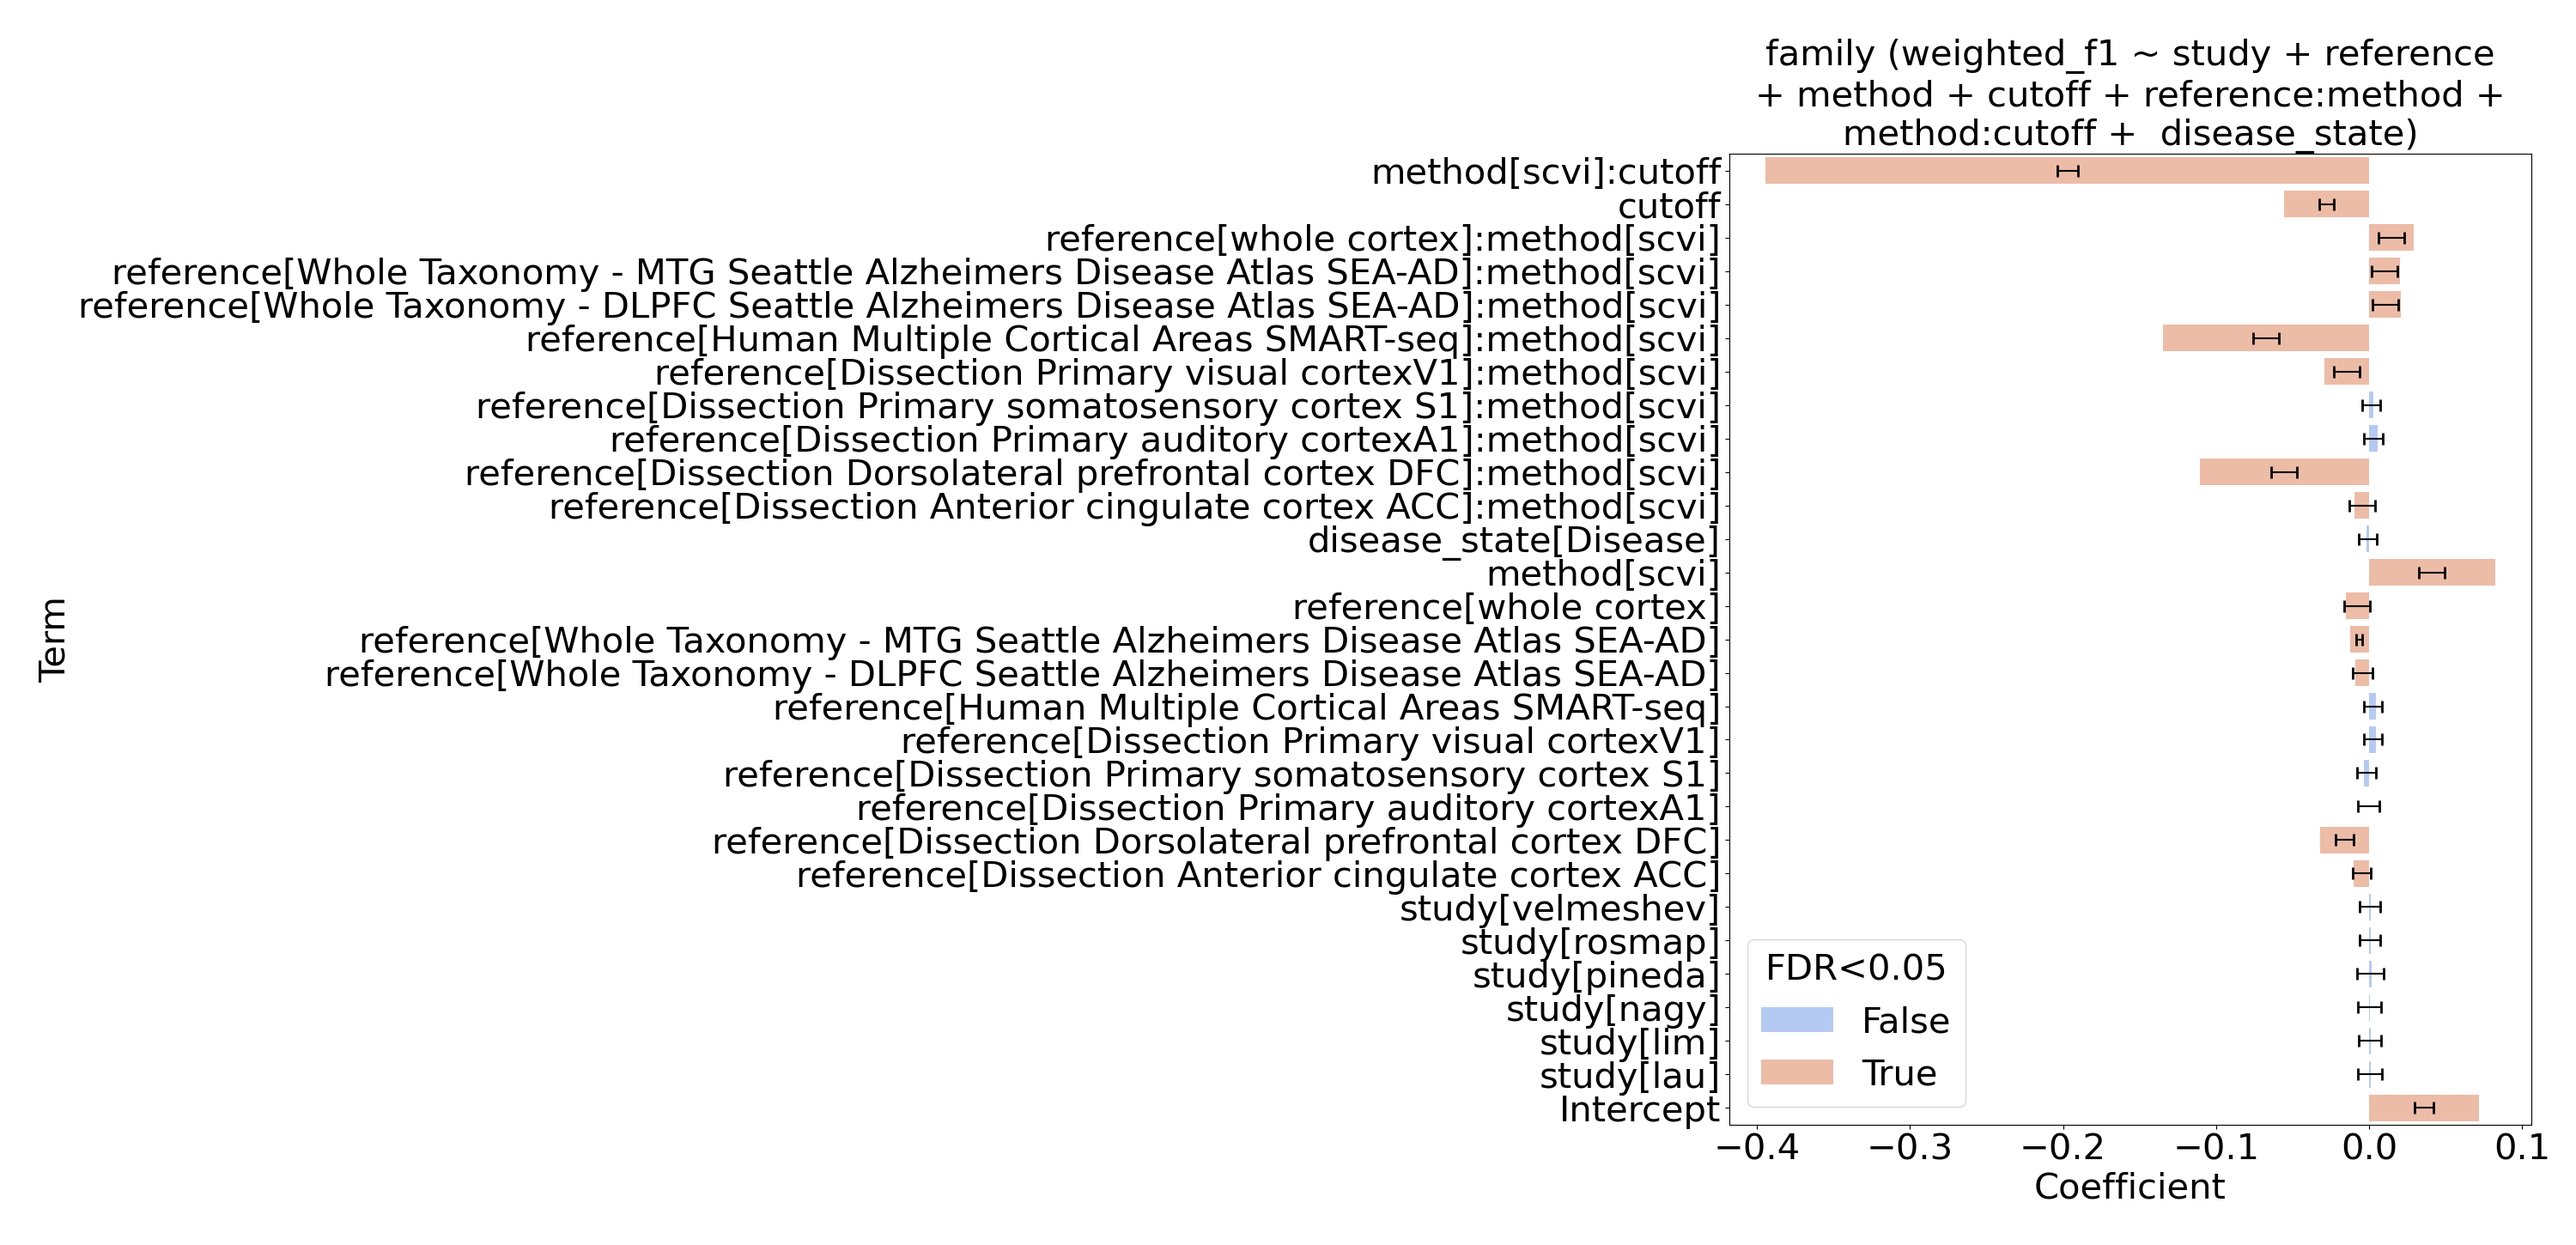
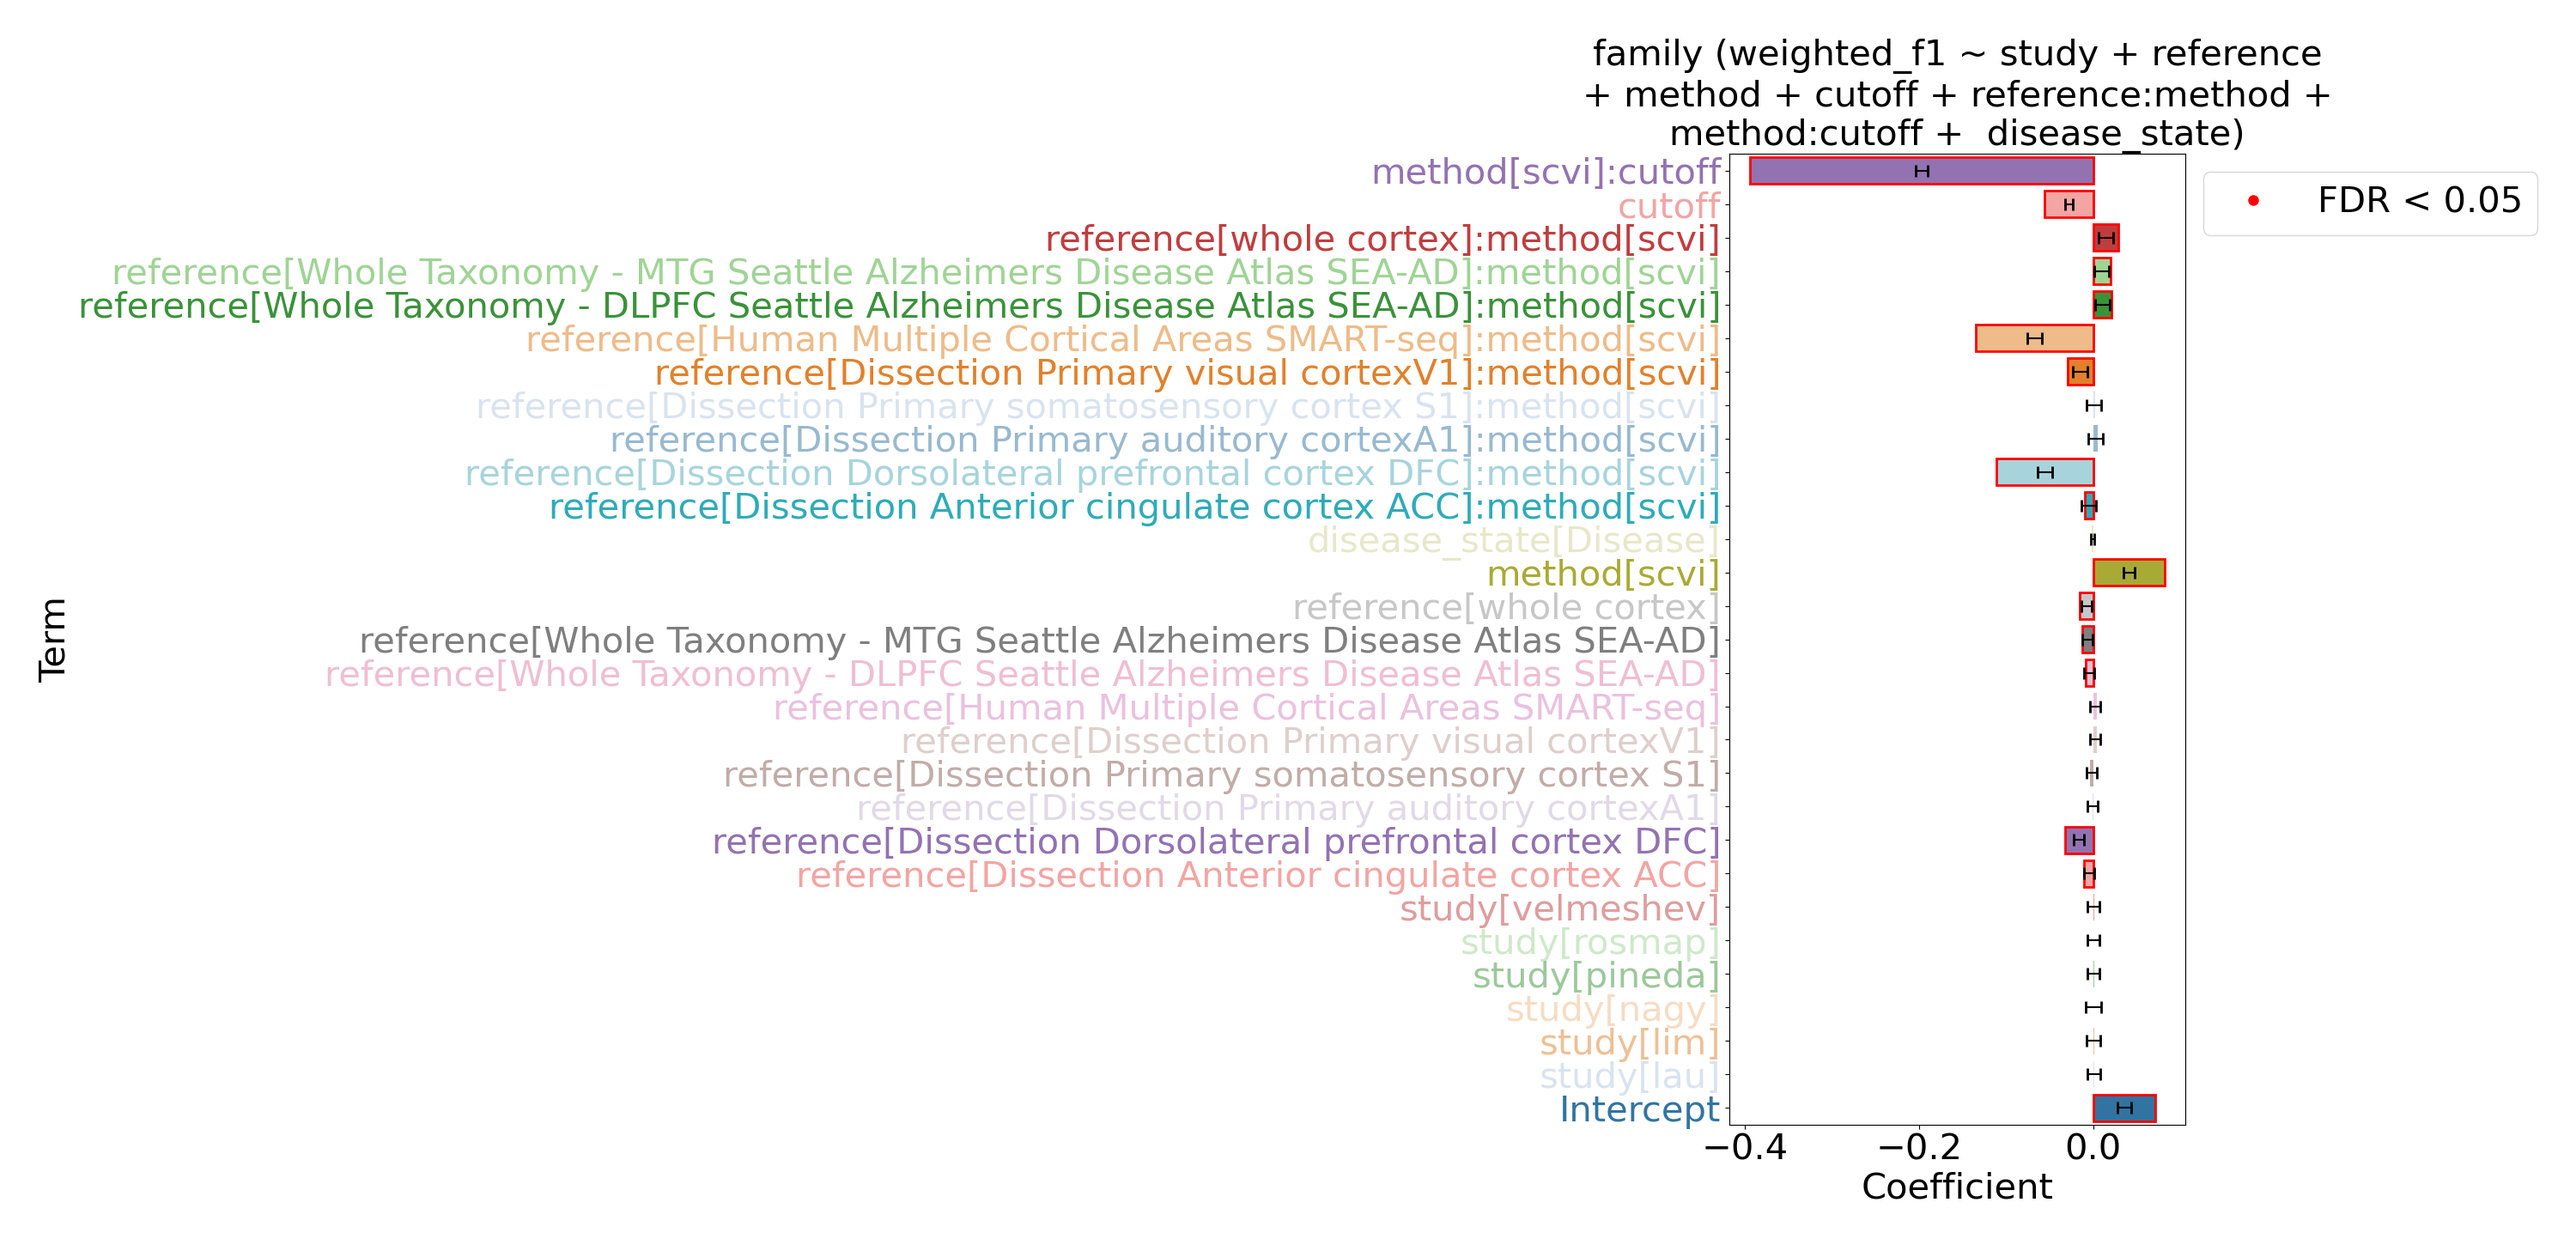
update model plots w colors

diff --git a/bin/model_performance.py b/bin/model_performance.py
@@ -28,6 +28,8 @@ import statsmodels.formula.api as smf
 from statsmodels.formula.api import glm
 import itertools
 import textwrap
+from matplotlib.patches import Patch  
+from matplotlib.lines import Line2D
 
 # Function to parse command line arguments
 def parse_arguments():
@@ -95,34 +97,63 @@ def run_lm_regressed(df, formula, control_vars=['study']):
   return model, model.summary2().tables[0], model_summary_df
 
 
+
 def plot_model_summary(model_summary, outdir, key):
-  plt.rcParams.update({'font.size': 30})
-  model_summary["FDR<0.05"] = model_summary["FDR"] < 0.05
-  model_summary["Term"] = model_summary["Term"].str.replace("T.", "")
-  formula = model_summary["formula"].unique()[0]
+    plt.rcParams.update({'font.size': 30})
+    model_summary["FDR<0.05"] = model_summary["FDR"] < 0.05
+    model_summary["Term"] = model_summary["Term"].str.replace("T.", "")
+    formula = model_summary["formula"].unique()[0]
+    
+    # Use the subset directly (no need for grouping)
+    plt.figure(figsize=(30, max(10, len(model_summary) * 0.5)))  # Scale height dynamically
 
-  for key, subset in model_summary.groupby("key"):
-      plt.figure(figsize=(30, max(10, len(subset) * 0.5)))  # Scale height dynamically
-      ax = sns.barplot(
-          data=subset, y="Term", x="Coef.", hue="FDR<0.05", dodge=False, errorbar=None, palette="coolwarm"
-      )
+    ax = sns.barplot(
+        data=model_summary, 
+        y="Term", 
+        x="Coef.", 
+        hue="Term",  # Color bars by term
+        dodge=False, 
+        errorbar=None, 
+        palette="tab20"  # Ensures enough colors for multiple terms
+    )
 
-      # Set y-axis limits to remove extra space
-      ax.set_ylim(-0.5, len(subset) - 0.5)        
-      for patch, (_, row) in zip(ax.patches, subset.iterrows()):
-          x_center = patch.get_x() + patch.get_width() / 2  # Get center of the bar horizontally
-          y_center = patch.get_y() + patch.get_height() / 2  # Get center of the bar vertically
-          plt.errorbar(x=x_center, y=y_center, xerr=2 * row["Std.Err."], fmt="none", color="black", capsize=5, capthick=2)
+    # Highlight significant terms (FDR < 0.05) with black edges or transparency
+    for patch, (_, row) in zip(ax.patches, model_summary.iterrows()):
+        if row["FDR<0.05"]:
+            patch.set_edgecolor("red")  # Add red border for significant terms
+            patch.set_linewidth(2)
+        else:
+            patch.set_alpha(0.5)  # Reduce opacity for non-significant terms
 
-      title = f"{key} ({formula})"
-      wrapped_title = "\n".join(textwrap.wrap(title, width=40))  # Adjust width as needed
+        term_color = patch.get_facecolor()  # Get color of the bar
+        y_tick_label = ax.get_yticklabels()[int(patch.get_y() + patch.get_height() / 2)]  # Match tick label to bar
+        y_tick_label.set_color(term_color)
 
-      # Plot
-      plt.title(wrapped_title, fontsize=30)      
-      plt.xlabel("Coefficient", fontsize=30)
-      plt.ylabel("Term", fontsize=30)
-      plt.tight_layout()
-      plt.savefig(os.path.join(outdir,f"{key}_{formula}_lm_coefficients.png"))
+    # Set y-axis limits to remove extra space
+    ax.set_ylim(-0.5, len(model_summary) - 0.5)        
+    for patch, (_, row) in zip(ax.patches, model_summary.iterrows()):
+        x_center = patch.get_x() + patch.get_width() / 2  # Get center of the bar horizontally
+        y_center = patch.get_y() + patch.get_height() / 2  # Get center of the bar vertically
+        plt.errorbar(x=x_center, y=y_center, xerr=2 * row["Std.Err."], fmt="none", color="black", capsize=5, capthick=2)
+
+    # Add a custom legend for FDR < 0.05
+    handles, labels = ax.get_legend_handles_labels()
+
+    # Add custom legend for FDR < 0.05
+    legend_elements = [
+        Line2D([0], [0], marker='o', color='w', markerfacecolor='red', markersize=10, label='FDR < 0.05')
+    ]
+    ax.legend(handles + legend_elements, labels + ['FDR < 0.05'], loc='upper left', bbox_to_anchor=(1, 1))
+
+    title = f"{key} ({formula})"
+    wrapped_title = "\n".join(textwrap.wrap(title, width=40))  # Adjust width as needed
+
+    # Plot
+    plt.title(wrapped_title, fontsize=30)      
+    plt.xlabel("Coefficient", fontsize=30)
+    plt.ylabel("Term", fontsize=30)
+    plt.tight_layout()
+    plt.savefig(os.path.join(outdir,f"{key}_{formula}_lm_coefficients.png"))
 
 
 def plot_model_metrics(df_list, formulas):
